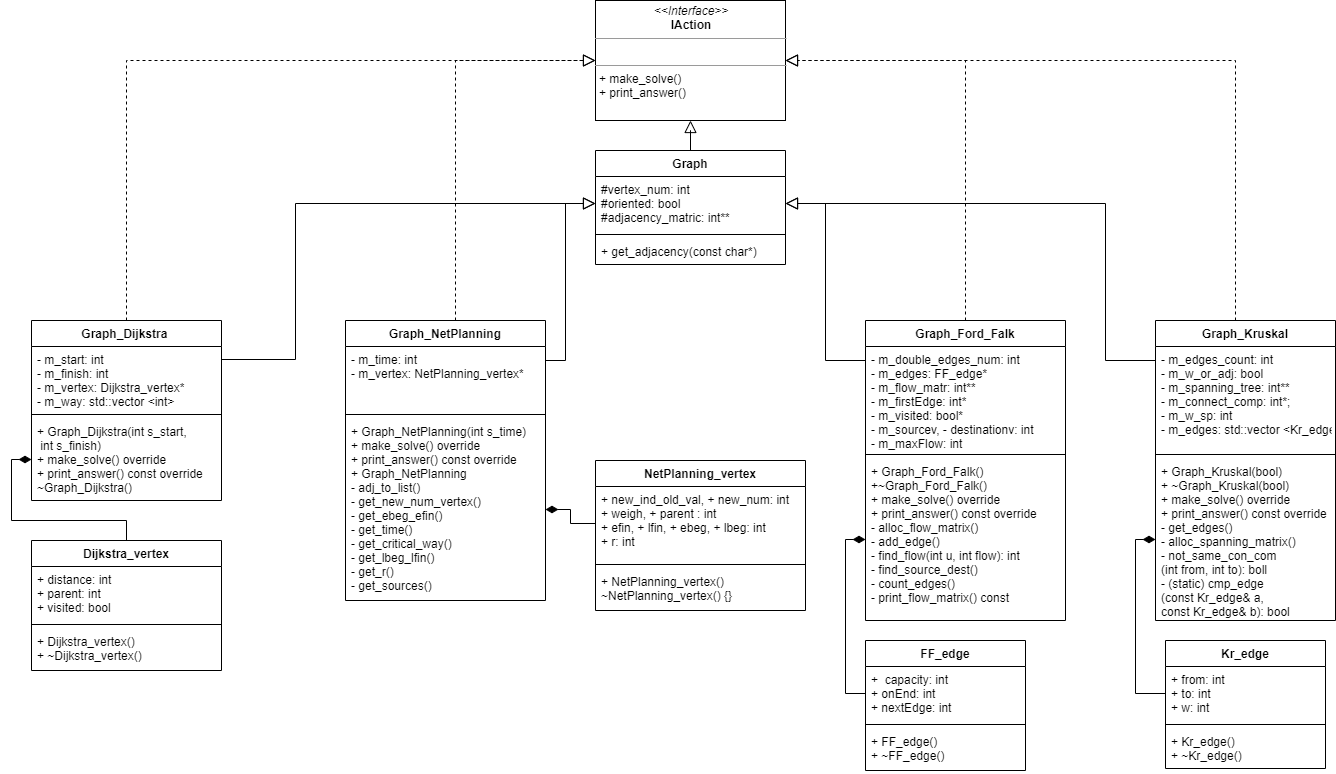
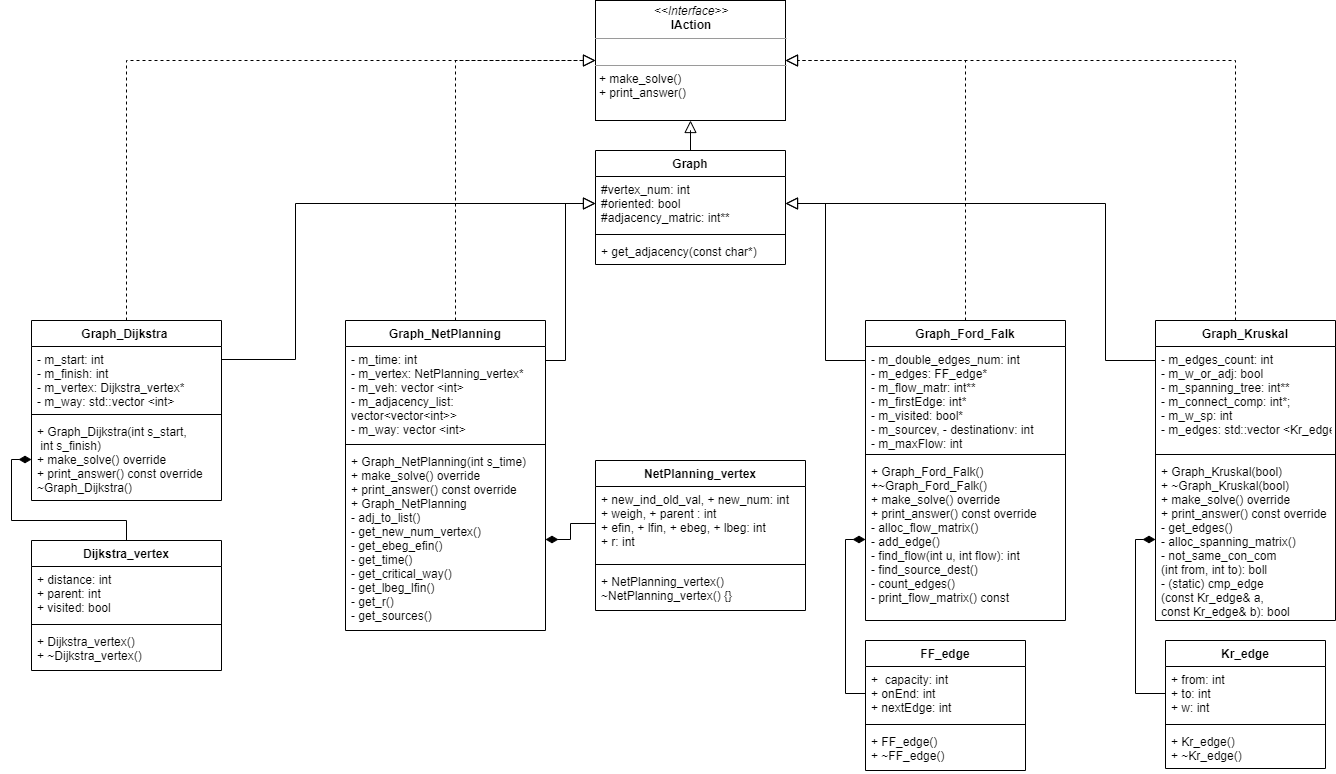
fix_UML

Changed region(s): [[0.2455, 0.4961, 0.399, 0.8062]]

diff --git a/CtoCplusplus/NetPlanning.cpp b/CtoCplusplus/NetPlanning.cpp
@@ -8,21 +8,21 @@ Graph_NetPlanning::~Graph_NetPlanning()
 {
 	if (vertex_num) {
 		delete[] m_vertex;
-		veh.clear();
-		adjacency_list.clear();
-		way.clear();
+		m_veh.clear();
+		m_adjacency_list.clear();
+		m_way.clear();
 	}
 }
 void Graph_NetPlanning::adj_to_list(void)
 {
 	for (int i = 1; i < vertex_num + 1; i++)
 	{
-		adjacency_list.push_back(std::vector<int>());
-		adjacency_list[i - 1].push_back(adjacency_matrix[i][0]);
+		m_adjacency_list.push_back(std::vector<int>());
+		m_adjacency_list[i - 1].push_back(adjacency_matrix[i][0]);
 		for (int j = 1; j < vertex_num + 1; j++)
 		{
 			if (adjacency_matrix[i][j] != -1 && i != j)
-				adjacency_list[i - 1].push_back(adjacency_matrix[j][0]);
+				m_adjacency_list[i - 1].push_back(adjacency_matrix[j][0]);
 		}
 	}
 }
@@ -54,9 +54,9 @@ void Graph_NetPlanning::print_answer() const
 {
 	cout << "Optimal plan = " << m_vertex[vertex_num].weigh << endl; //<< weigh[parent[vertex_num] - 1] << " " 
 	cout << "Critical rote. New num(old num): " << endl;
-	for (int i = way.size() - 1; i >= 0; i--)
+	for (int i = m_way.size() - 1; i >= 0; i--)
 	{
-		cout << way[i] << "(" << m_vertex[way[i] - 1].new_ind_old_val << ")" << " ";
+		cout << m_way[i] << "(" << m_vertex[m_way[i] - 1].new_ind_old_val << ")" << " ";
 	}
 	cout << endl;
 	cout << "new num - old num - ebeg - efin - lbeg - lfin - r :" << endl;
@@ -68,9 +68,9 @@ void Graph_NetPlanning::print_answer() const
 
 void Graph_NetPlanning::get_sources(void)
 {
-	for (int i = 0; i < adjacency_list.size(); i++) { //добавляю стартовые стоки, чтобы из них выбрать предка для t и ответ
-		if (adjacency_list[i].size() == 1) {
-			veh.push_back(adjacency_list[i][0]);
+	for (int i = 0; i < m_adjacency_list.size(); i++) { //добавляю стартовые стоки, чтобы из них выбрать предка для t и ответ
+		if (m_adjacency_list[i].size() == 1) {
+			m_veh.push_back(m_adjacency_list[i][0]);
 		}
 	}
 }
@@ -83,22 +83,22 @@ void Graph_NetPlanning::get_new_num_vertex(void)
 	int i = 0;
 	int number = vertex_num;
 	int rem_ver = 0;
-	while (adjacency_list.size() > 1)
+	while (m_adjacency_list.size() > 1)
 	{
-		if (adjacency_list[i].size() == 1)
+		if (m_adjacency_list[i].size() == 1)
 		{
-			rem_ver = adjacency_list[i][0];
+			rem_ver = m_adjacency_list[i][0];
 			m_vertex[rem_ver - 1].new_num = number;
 			number--;
-			adjacency_list[i].clear();
-			adjacency_list.erase(adjacency_list.begin() + i);
-			for (int j = 0; j < adjacency_list.size(); j++)
+			m_adjacency_list[i].clear();
+			m_adjacency_list.erase(m_adjacency_list.begin() + i);
+			for (int j = 0; j < m_adjacency_list.size(); j++)
 			{
-				for (int k = 1; k < adjacency_list[j].size(); k++)
+				for (int k = 1; k < m_adjacency_list[j].size(); k++)
 				{
-					if (adjacency_list[j][k] == rem_ver)
+					if (m_adjacency_list[j][k] == rem_ver)
 					{
-						adjacency_list[j].erase(adjacency_list[j].begin() + k);
+						m_adjacency_list[j].erase(m_adjacency_list[j].begin() + k);
 						k--;
 					}
 				}
@@ -106,7 +106,7 @@ void Graph_NetPlanning::get_new_num_vertex(void)
 			i--;
 			//print_adj_list();
 		}
-		if (i == adjacency_list.size() - 1)
+		if (i == m_adjacency_list.size() - 1)
 			i = 0;
 		else i++;
 	}
@@ -122,9 +122,9 @@ void Graph_NetPlanning::get_ebeg_efin(void)
 {
 	int max_weigh = -1;
 	int old_num = 0, new_ind = 0; //номер вершины в старых номерах и индекс новой вершины
-	for (int i = 0; i < veh.size(); i++)
+	for (int i = 0; i < m_veh.size(); i++)
 	{
-		new_ind = m_vertex[veh[i] - 1].new_num - 1;
+		new_ind = m_vertex[m_veh[i] - 1].new_num - 1;
 		if (m_vertex[new_ind].efin > m_vertex[vertex_num].efin)
 		{
 			m_vertex[vertex_num].efin = m_vertex[new_ind].efin;
@@ -180,12 +180,12 @@ void Graph_NetPlanning::get_time(void)
 
 void Graph_NetPlanning::get_critical_way(void)
 {
-	way.push_back(vertex_num);
+	m_way.push_back(vertex_num);
 	int temp = vertex_num;
 	while (temp != 1)
 	{
 		temp = m_vertex[temp - 1].parent;
-		way.push_back(temp);
+		m_way.push_back(temp);
 	}
 }
 void Graph_NetPlanning::get_lbeg_lfin(void)
@@ -196,24 +196,24 @@ void Graph_NetPlanning::get_lbeg_lfin(void)
 	m_vertex[vertex_num].lbeg = m_time;
 	m_vertex[vertex_num].lfin = m_time;
 
-	for (int i = 0; i < veh.size(); i++) //для висячих вершин, потому что в матрице смежности нигде не указано, что после них идет добавленная работа t
+	for (int i = 0; i < m_veh.size(); i++) //для висячих вершин, потому что в матрице смежности нигде не указано, что после них идет добавленная работа t
 	{
 		max_weigh = -1;
-		new_ind = m_vertex[veh[i] - 1].new_num - 1; //индекс висчей вершины в массиве
+		new_ind = m_vertex[m_veh[i] - 1].new_num - 1; //индекс висчей вершины в массиве
 		m_vertex[new_ind].lfin = m_vertex[vertex_num].lfin;
 		for (int k = 1; k < vertex_num + 1; k++)
 		{
 			//-max всех ребер
-			if (adjacency_matrix[k][veh[i]] > max_weigh) //смотрим все входящие
+			if (adjacency_matrix[k][m_veh[i]] > max_weigh) //смотрим все входящие
 			{
-				max_weigh = adjacency_matrix[k][veh[i]];
+				max_weigh = adjacency_matrix[k][m_veh[i]];
 				m_vertex[new_ind].lbeg = m_vertex[new_ind].lfin - max_weigh;
 			}
 		}
 	}
 
 	//здесь i уже индекс, а не номер, поэтому единичку не вычитаем
-	for (int i = vertex_num - 1 - veh.size(); i >= 0; i--)
+	for (int i = vertex_num - 1 - m_veh.size(); i >= 0; i--)
 	{
 		max_weigh = -1;
 		old_num = m_vertex[i].new_ind_old_val;

diff --git a/CtoCplusplus/Graph.h b/CtoCplusplus/Graph.h
@@ -74,9 +74,6 @@ public:
 
 class Graph_NetPlanning : public Graph//, public IAction
 {
-	std::vector <int> veh;
-	std::vector<std::vector<int>> adjacency_list;
-	std::vector <int> way;
 
 public:
 	Graph_NetPlanning(int s_time);
@@ -86,6 +83,9 @@ public:
 private:
 	int m_time = 0;
 	NetPlanning_vertex* m_vertex;
+	std::vector <int> m_veh;
+	std::vector<std::vector<int>> m_adjacency_list;
+	std::vector <int> m_way;
 
 	void adj_to_list(void);
 	void get_new_num_vertex(void);
